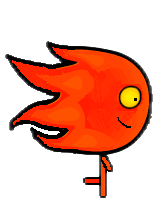
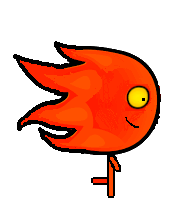
Сделала нормальные картинки героев

diff --git a/characters.py b/characters.py
@@ -13,6 +13,7 @@ def load_image(name):
     h1 = h / image.get_height()
     w1 = image.get_width() * h1
     image1 = pygame.transform.scale(image, (w1, h))
+    image1.set_colorkey((255, 255, 255))
     return image1
 
 
@@ -46,7 +47,7 @@ class Fireboy(pygame.sprite.Sprite):
 
 
 class Watergirl(pygame.sprite.Sprite):
-    image = load_image("watergirl_stay1.png")
+    image = load_image("watergirl_stay2.png")
 
     def __init__(self, x, y):
         super().__init__()
